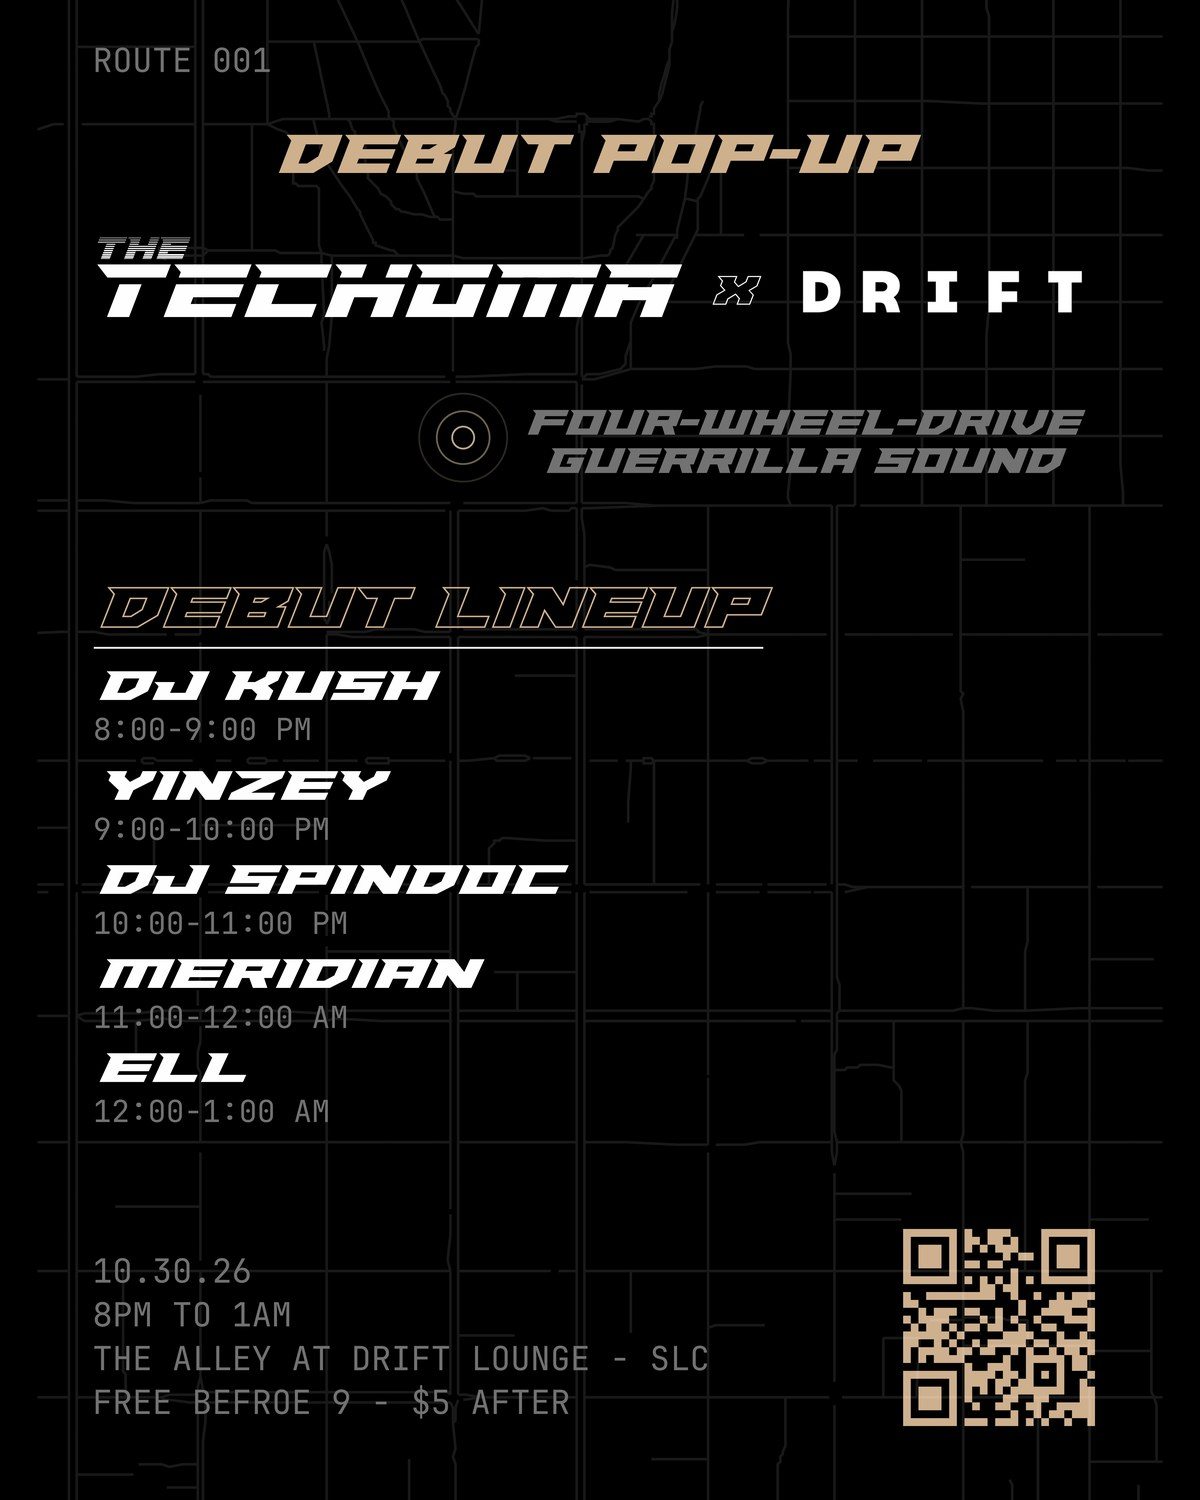
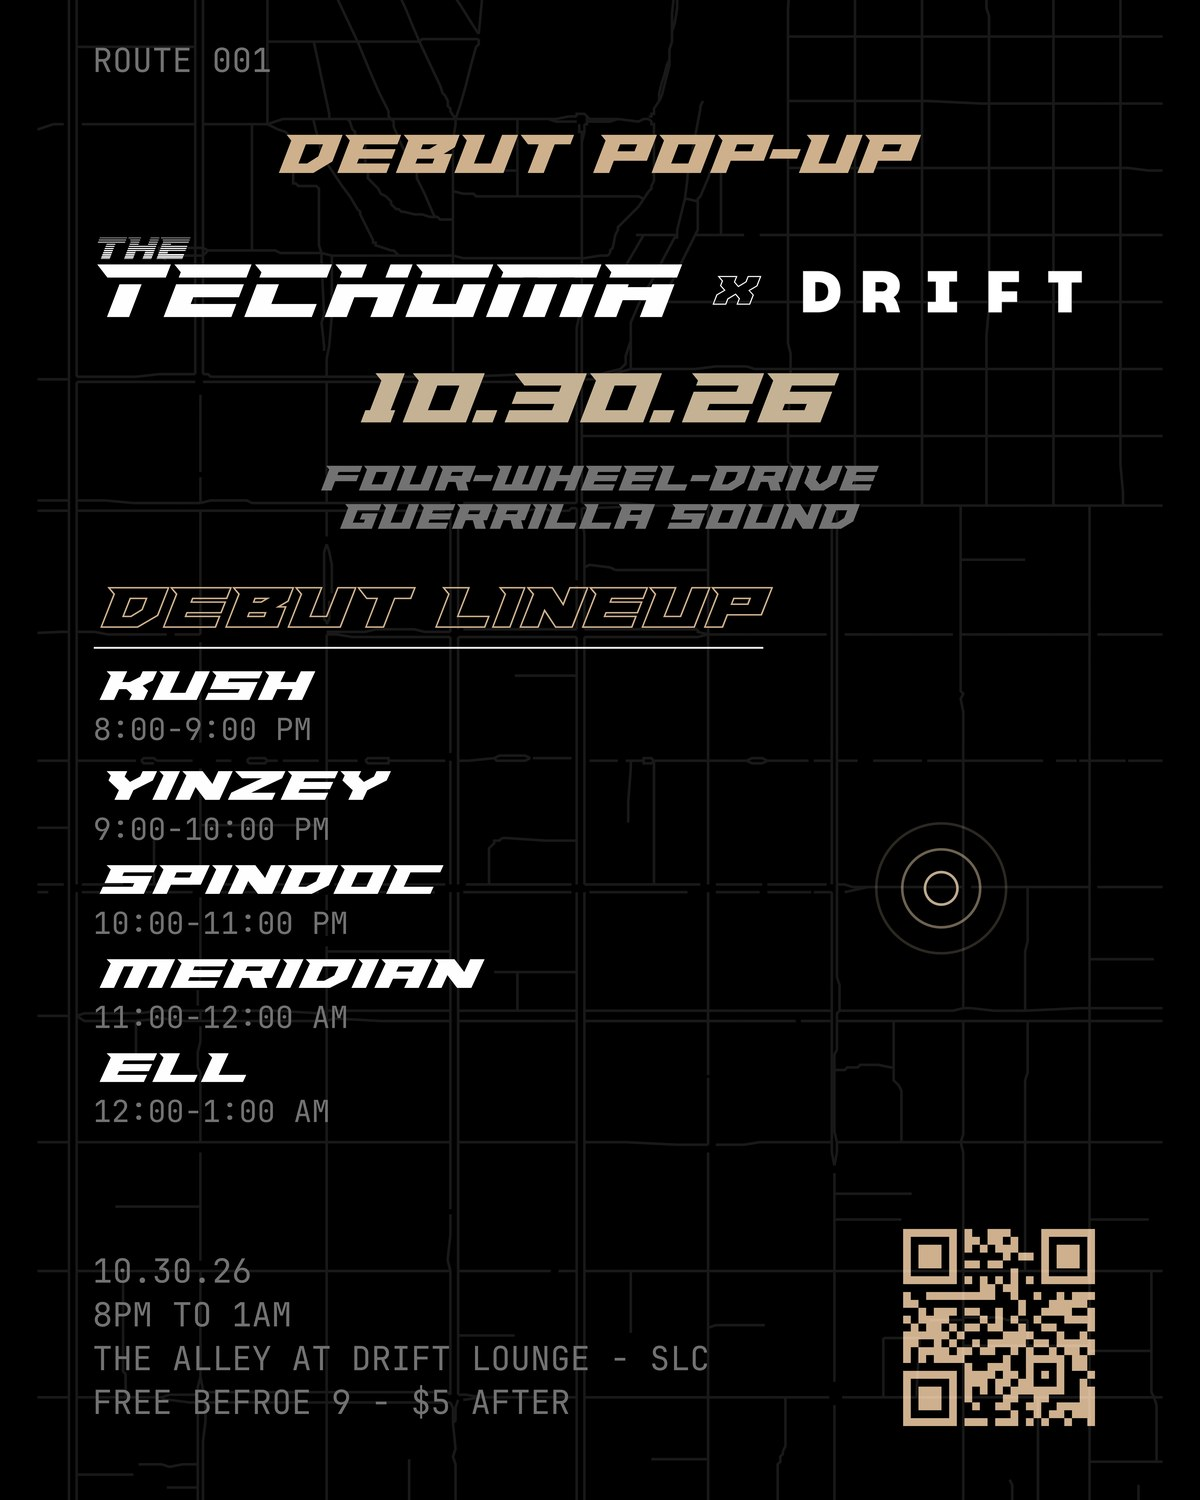
Update event flyer to latest poster, drop DJ prefix from lineup
The updated flyer shows "KUSH" and "SPINDOC" without the DJ prefix,
matching the recently renamed animations. Updated the lineup text to
match so the card doesn't contradict its own flyer.

diff --git a/techoma/content/events.ts b/techoma/content/events.ts
@@ -22,7 +22,7 @@ export const events: Event[] = [
     title: "The TECHOMA at Drift Lounge Alleyway",
     location: "Drift Lounge Alleyway, Salt Lake City",
     time: "8:00 PM – 1:00 AM",
-    lineup: ["DJ Kush", "Yinzey", "DJ Spindoc", "Meridian", "Ell"],
+    lineup: ["Kush", "Yinzey", "Spindoc", "Meridian", "Ell"],
     instagramUrl: "https://www.instagram.com/p/DeezCTEm5B1/",
     flyerSrc: "/images/event-drift-lounge-flyer.jpg",
   },
